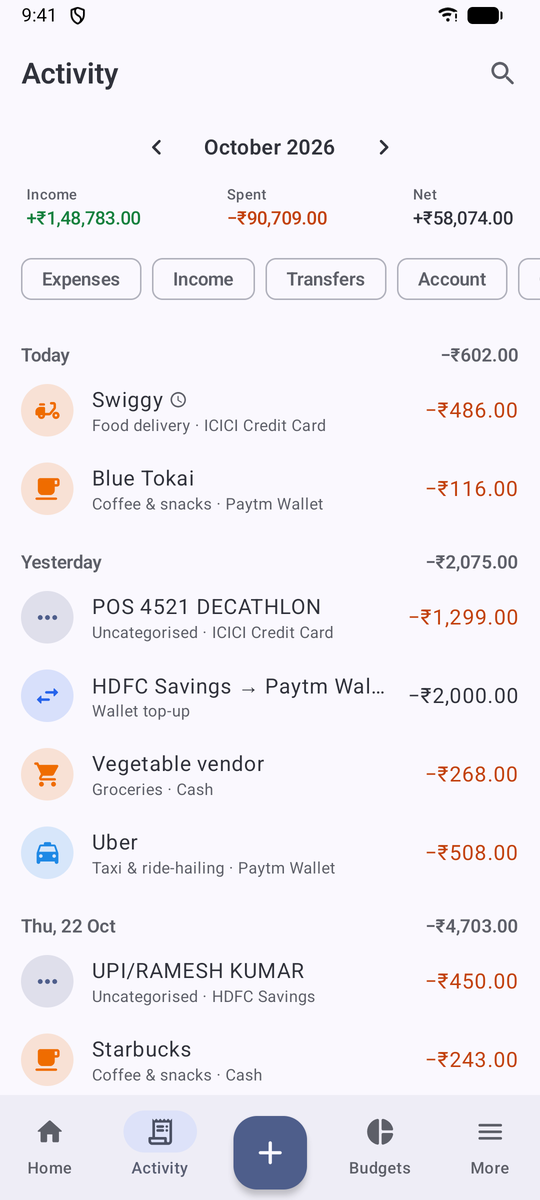
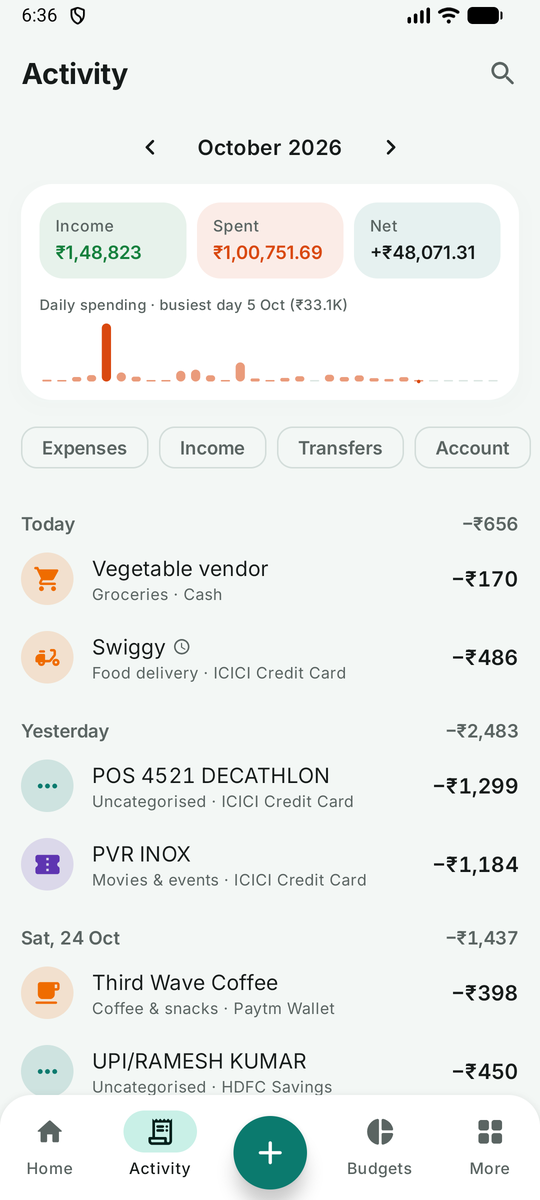
Docs and deployment: receipts, imports and check-ins documented; release 1.7.0
CHANGELOG entry for 1.7.0. The privacy policy covers on-phone receipt
reading, statement import, voice entry and sharing a book; the Google
Play notes list the new native library and its 16 KB alignment; the
product doc and roadmap follow the new features; docs/14 explains the
receipt reader and how to rebuild its models. Refreshed screenshots.

diff --git a/CHANGELOG.md b/CHANGELOG.md
@@ -1,5 +1,57 @@
 # Changelog
 
+## 1.7.0
+
+**Android: less typing, fewer taps**
+- Found payments can be saved straight from the notification: Save, Edit or Ignore, then Undo or Change for a few minutes after. A payment that is already in the book says so and offers "Add anyway".
+- Type or say it in one line: "450 lunch yesterday", "+85000 salary @hdfc", "1.2k groceries #trip". The amount, date, account, tags and category are filled in as you type (everyday words like lunch, cab or petrol find their category), and the mic works offline where the phone supports it. It is on Home and as a long-press shortcut on the app icon.
+- Scan a receipt: take or pick a photo and the amount, date and shop fill themselves in, with Undo. Reading happens on the phone with open models (PaddleOCR, run by ncnn): no Google services and no network. It reads Indian receipts (₹, Rs., GST lines, lakh grouping) and most others (decimal commas, SUMA, TOTALE…), and photos come out the right way up.
+- Import bank statements on the phone: PDF (including password-protected ones), Excel (.xls and .xlsx), CSV, OFX/QFX and QIF. Columns and the date style are guessed, UPI/NEFT/card narrations become readable payees, categories come from your rules and past entries, and anything already in the book is left out. Open or share a statement file to LekhaMint to start.
+- A weekly check-in on Sunday evening: what you spent against last week, entries without a category (one tap each, or "always file it this way"), found payments, budgets to watch, the week's bills, and an account whose balance hasn't been checked lately. It takes about 30 seconds; it can be turned off in More.
+- "Does this match your bank?": Home and the check-in ask about an account now and then; type the bank's balance and one tap adds the difference as an adjustment.
+- Bill reminders you can act on: Mark paid or Skip this time from the notification; card bills, loan EMIs and deposits open the right screen. Reminders arrive in the daytime only.
+- Share a book with family from the phone: add people by email as editors or viewers, remove them, or send an invite.
+- Simple mode for new books: More shows the everyday screens, and each tool (goals, loans, tags, rules…) appears once you turn it on in More → Features or once the book uses it.
+- Open-source notices in More → About list everything the app ships with and their licences.
+
+**Web**
+- Quick add knows everyday words too ("lunch", "uber", "petrol"), the same as the phone.
+- Imports recognise dates written 2026-10-24 as year first.
+
+**Fixes**
+- Android: photos taken in portrait were saved lying on their side in receipts.
+
+**Android: polish**
+- Inter is now the app's typeface (bundled, about 180 KB, trimmed to Latin, currency and maths signs; other scripts fall back to the system font).
+- Cards float on a soft shadow instead of a grey outline; the bottom bar is lifted and rounded; screens slide in when you open them and fade between tabs.
+- Lists show spending in the normal text colour and income in green, so a month of purchases reads calmly; the sign still says which way money went. Transfers show without a sign.
+- Home: the main card says "Total balance" (it read "Available to spend", which contradicted "Safe to spend" below it), shows placeholders instead of ₹0 while the month is added up, and the quick actions are Income, Transfer, Accounts and Reports (spending has the big + button).
+- Adding a transaction: a more compact keypad leaves the payee and note fields visible.
+- Sync says "Not syncing right now" with the error when it fails, instead of "Connected".
+- Dates read day first everywhere ("1 Oct 2025"); counts read "1 day", "1 change" instead of "1 days", "1 changes"; the snackbar's Undo uses the theme colour.
+- Local builds show the real version (from this changelog) instead of 1.0.0.
+
+**Web: polish**
+- Phones: transaction filters fold behind a Filters button so the list starts on the first screen; the tab bar's last tab is More, which opens every page; the Month / All time switch stays on one line.
+- Home: the set-up checklist shrinks to one line with the next step once most of it is done; the main card says "Total balance".
+- Lists show spending in the text colour and income in green; transfers show without a sign.
+- The add form puts the cursor in Amount (every dialog now focuses the field it asks for, not the Close button), and Today / Yesterday sit under the date.
+- Inter is bundled with the app (69 KB) so every browser shows the same type; nothing is fetched from a font service.
+
+**Search**
+- Search on Android and the web also finds a category by name and an exact amount: type "486" from a bank statement or "groceries".
+
+**Fixes**
+- Web: the transactions table's column header stuck 60px down inside the table, covering the first rows.
+- Android: if saving a transaction failed (for example a full disk or an unreadable receipt), Save stopped working with no message; it now says what went wrong. Saves in other forms (loans, deposits, people, budgets…) show a message instead of closing the app. A failure creating the first book no longer leaves "Get started" stuck.
+- Android: if a full download of the book (needed after a long time offline) was interrupted, items deleted on other devices could stay on the phone; the download now restarts from the beginning until it completes.
+
+**Server**
+- Deleting your account no longer deletes a book other people still use: a book you alone own passes to its longest-standing member (editors first), and only books nobody else uses are deleted.
+- The session cookie is marked Secure behind a trusted HTTPS reverse proxy (`X-Forwarded-Proto`), not only on direct TLS.
+- Changing the password is rate limited per person; deleting the account also clears the browser's session cookie; cross-origin requests may use `PUT` (settings).
+- The server logs a one-time warning when requests come through a reverse proxy that is not trusted, because everyone then shares one sign-in limit.
+
 ## 1.6.0
 
 **Android: a new look**

diff --git a/docs/14-receipt-reading.md b/docs/14-receipt-reading.md
@@ -1,0 +1,52 @@
+# 14 – Receipt reading (Android)
+
+Receipts are read on the phone. Nothing uses Google Play services or the network.
+
+## Pieces
+
+| Part | Where | Licence |
+|---|---|---|
+| Text detection model: PaddleOCR PP-OCRv5 mobile det | `android/app/src/main/assets/ocr/det.param`, `det.bin` | Apache 2.0 |
+| Text recognition model: PaddleOCR en PP-OCRv5 mobile rec, 436-character dictionary | `assets/ocr/rec.param`, `rec.bin`, `keys.txt` | Apache 2.0 |
+| Runtime: ncnn 20260526, static Android build | downloaded by the `fetchNcnn` Gradle task, SHA-256 pinned | BSD 3-Clause |
+| JNI: runs the two models and nothing else | `android/app/src/main/cpp/ocr_jni.cpp` | MIT (this project) |
+| Boxes, line grouping, page tilt | `app/kosh/ocr/TextFinder.kt` | MIT |
+| Total, date, shop and currency | `app/kosh/ocr/ReceiptParser.kt` | MIT |
+
+The steps after the models run are in Kotlin so they can be unit tested (`ReceiptOcrTest`):
+
+1. **Detect.** The photo, upright (EXIF applied), scaled to at most 960 px on the long side in multiples of 32,
+   BGR with ImageNet mean and deviation. The model returns a text probability map.
+2. **Find boxes.** Threshold 0.3, connected regions, the smallest rotated rectangle around each, box score at
+   least 0.6, then grown by 1.5 ("unclip"), as PaddleOCR's DB post-processing does.
+3. **Read.** Each box is cropped and straightened to 48 px high, scaled to (x − 127.5) / 127.5, and decoded with
+   CTC greedy decoding (classes: blank + `keys.txt` + space). Lines under 0.5 confidence are dropped.
+4. **Group into lines.** Boxes are turned back by the page's tilt (the median angle of the wide boxes), then
+   joined when they overlap vertically, so "TOTAL" and its amount stay on one line in a slanted photo.
+5. **Parse.** The total is the amount on the strongest "total" line (Grand Total and Net Payable over Total; never
+   Sub Total, tax, savings or change), else the largest amount printed twice. The date must fall within the last
+   two years. The shop is large text near the top that isn't an address, tax number or heading.
+
+## Rebuilding the models
+
+1. Download the inference models from `huggingface.co/PaddlePaddle/PP-OCRv5_mobile_det` and
+   `huggingface.co/PaddlePaddle/en_PP-OCRv5_mobile_rec`.
+2. Convert to ONNX: `paddle2onnx --model_dir <m> --model_filename inference.json --params_filename
+   inference.pdiparams --save_file <m>.onnx --opset_version 14` (paddlepaddle 3.1.1 with paddle2onnx 2.1.0;
+   newer paddle builds fail to load on Windows).
+3. Convert to ncnn: `pnnx <m>.onnx fp16=1`, keeping the dynamic input size.
+4. **Make the shapes static where the bundled ncnn needs it.** Recent pnnx writes the squeeze-and-excite
+   reshapes in the detector as `Reshape … 12=0 13=0 6="1,1,//(96,0n),0n"` (a batch-aware shape). ncnn
+   20260526 cannot load that ("expr divide by zero", "layer load_param … failed") and the reader stops working.
+   Replace each with the fixed shape `0=1 1=1 2=96` (or `2=24`); the output is identical. The unit test
+   `modelsLoadOnTheBundledNcnn` fails if such a layer comes back.
+5. Check both models with the same ncnn version the app ships (`pip install ncnn==1.0.20260526`) on a few
+   receipt photos before replacing the assets.
+
+Raising the ncnn version: change the version and SHA-256 in `android/app/build.gradle.kts`, rebuild, and run the
+app on a phone or emulator with a receipt photo.
+
+## Size
+
+The models are about 6.3 MB (fp16). `libkoshocr.so` is 4.8 MB on arm64 and 2.5 MB on 32-bit ARM, stored
+compressed in the APK. Release builds ship ARM only; debug builds add x86_64 for the emulator.

diff --git a/docs/01-product-and-ux.md b/docs/01-product-and-ux.md
@@ -62,6 +62,11 @@ Bottom navigation
 - **Save** keeps the screen open on long-press, for logging several receipts in a row.
 - Entry points: the FAB, a **Quick Settings tile**, a **home-screen widget**, an **app shortcut**, and the share sheet (share an SMS or receipt image to pre-fill the amount).
 - **Found payments** (optional, Android): with notification access turned on, bank SMS, card alerts and UPI/wallet app notifications are read on the phone and listed under *More → Find payments automatically* (and a card on Home). Each shows the amount, payee and the account's last digits; *Add* opens the form already filled in, matched to the account with those digits and categorised by your rules. OTPs, offers, due-date reminders and chat apps are ignored, and nothing is saved until you tap *Add*.
+- **One line** (Android and web): "450 lunch yesterday @hdfc #trip" fills amount, date, account, tags and category as you type; on Android the mic fills the line by voice. Home has the bar, and the app icon's long-press menu has *Quick add*.
+- **Receipts** (Android): attaching or scanning a receipt photo reads the total, date and shop on the phone (PaddleOCR + ncnn, no Google services) and fills an empty form, with *Undo*.
+- **From the notification** (Android): a found payment's notification has *Save*, *Edit* and *Ignore*; after saving, *Undo* and *Change* stay for five minutes. Bill reminders have *Mark paid* and *Skip this time*.
+- **Weekly check-in** (Android, Sunday 18:00): the week against last week, entries needing a category (one tap, or make it a rule), found payments, budgets to watch, the next week's bills and one account to compare with the bank ("Does this match your bank?", one tap to add the difference).
+- **Simple mode** (Android, on for new books): More shows the everyday screens; goals, loans, deposits, debts, tags, rules, rates, tools, tax, statements and the assistant appear when turned on in *More → Features* or once the book uses them.
 - **Insights** (Android, *More → Insights & forecast*, and a card on Home): *safe to spend per day* until month end or payday — measured against an overall monthly budget, else this month's income, else cash — with the sum shown step by step; what stands out against the same days last month; a cash forecast with a likely line and a range; and repeat payments found in past spending, with price rises and a one-tap reminder.
 
 ## Visual design

diff --git a/PRIVACY.md b/PRIVACY.md
@@ -1,6 +1,6 @@
 # Privacy policy
 
-Last updated: 25 October 2026
+Last updated: 26 October 2026
 
 LekhaMint is a free, open-source money manager. This policy covers the LekhaMint Android app
 (package `app.kosh`), the web app and the self-hosted LekhaMint server. The source code is public at
@@ -20,6 +20,18 @@ and settings are stored in the app's private storage. Automatic backups are writ
 private storage; backups you export go where you choose and can be password-encrypted. Server sign-in
 tokens and assistant API keys are encrypted with a key held in the Android Keystore.
 
+Some things are read on the phone and never sent anywhere:
+
+- **Receipt photos.** When you attach or scan a receipt, the app reads its amount, date and shop with
+  text-recognition models built into the app. No Google Play services and no network are involved. The
+  photo is saved with the transaction like any other attachment.
+- **Bank statements you import.** The file (PDF, Excel, CSV, OFX or QIF, and its password if it has one)
+  is read on the phone; only the entries you choose to import are saved. The file and its password are
+  not kept.
+- **Voice entry.** The microphone button uses your phone's own speech recognition service (offline when
+  the phone supports it). LekhaMint receives only the words, not the recording. The app does not hold
+  the microphone permission itself.
+
 Android's own cloud backup and device-to-device transfer are turned off for this app, so your data is
 not copied to Google's backup service.
 
@@ -29,7 +41,8 @@ Only in these cases, and only after you set them up:
 
 1. **Sync with your own server.** If you sign in to a LekhaMint server, your records are sent to that
    server address and nowhere else. The server is run by you or by someone you choose (for example a
-   family member). Its operator can read the data stored on it.
+   family member). Its operator can read the data stored on it. If you share a book with someone
+   (*More → Share with family*), they see that book's records on their own devices.
 2. **The assistant.** If you configure the assistant, your question and the records it looks up
    (totals, balances, loans, deposits and, if you allow it, payee names and notes) are sent to the
    model service address you enter. The app asks for your consent before the first request to each

diff --git a/docs/12-google-play.md b/docs/12-google-play.md
@@ -10,7 +10,8 @@ the steps that must be done by hand in the Play Console.
 | App Bundle upload | `./gradlew bundleRelease` makes `app-release.aab`; the release workflow publishes it as `LekhaMint-play.aab`. |
 | Target API level (API 36 from 31 August 2026) | `targetSdk = 36`, `compileSdk = 36`. Raise both each year when Play raises the bar. |
 | Release signing | The release workflow refuses to publish a debug-signed APK or bundle. |
-| 16 KB memory pages | The only native code is AndroidX's `libandroidx.graphics.path.so`; it is 16 KB aligned in the ZIP and in its ELF segments (checked with `zipalign -c -P 16`). |
+| 16 KB memory pages | Native code: AndroidX's `libandroidx.graphics.path.so` and the receipt reader `libkoshocr.so` (ncnn, built with NDK 27). Both have 16 KB-aligned ELF segments (`llvm-readelf -lW`, `Align 0x4000`); they are stored compressed (`useLegacyPackaging`), so `zipalign -c -P 16` reports them as "OK - compressed". |
+| Receipt reading and voice | Receipts are read on the phone (PaddleOCR models with ncnn, no Play services). Photos come from the camera app (`TakePicture`) or the photo picker and speech from `RecognizerIntent`, so the app holds no camera, microphone or storage permission. |
 | In-app account deletion | *More → Sync → Delete account* (and *Settings → Your account* on the web) calls `DELETE /api/v1/auth/me`. |
 | Privacy policy | [`PRIVACY.md`](../PRIVACY.md), linked from *More → Privacy policy*. |
 | Generative AI content | Each assistant answer has a *Report* action; the answer is never attached automatically. |

diff --git a/docs/07-api.md b/docs/07-api.md
@@ -38,7 +38,7 @@ Base path is `/api/v1`. The API speaks JSON only. Authenticated endpoints need
 | `GET /auth/sessions` | Devices signed in: `{sessions:[{id, device_name, last_used_at, current}]}` |
 | `DELETE /auth/sessions/{id}` | Sign out that device |
 | `POST /auth/password` | `{current_password, new_password}`. Also signs out all other devices. |
-| `DELETE /auth/me` | `{password}` → `{deleted_ledgers}`. Permanently deletes the account and every ledger it alone owns; removes it from ledgers with another owner. Wrong password: 401 `invalid_credentials` (the session stays valid). |
+| `DELETE /auth/me` | `{password}` → `{deleted_ledgers}`. Permanently deletes the account. A ledger it alone owns passes to its longest-standing other member (editors before viewers); one with no other members is deleted. It is removed from every other ledger. Wrong password: 401 `invalid_credentials` (the session stays valid). |
 
 ## Per-person settings
 
@@ -100,7 +100,7 @@ so phones pick them up on their next pull.
 | `tag_id`, `type`, `status` | Exact match |
 | `debt_id` | Loans and repayments of one debt; `any` lists every debt movement |
 | `min_amount`, `max_amount` | Amount range in minor units, inclusive |
-| `q` | Case-insensitive search in payee and note |
+| `q` | Case-insensitive search in payee, note and category name; a number such as `486` or `1,299.50` also matches that exact amount (in the book's main currency) |
 | `deleted=true` | List the Trash |
 | `limit` (≤ 500), `cursor` | Paging. Pass back `next_cursor`. |
 

diff --git a/docs/09-roadmap.md b/docs/09-roadmap.md
@@ -60,14 +60,20 @@ This page tracks concrete status.
       transfers/end conditions and "mark paid", auto-recording of due items, exchange-rate editor, book sharing,
       signed-in devices, keyboard shortcuts, mobile tab bar, true-black theme
 
+### Android 1.7 (October 2026)
+- [x] Command-style quick add with voice; everyday words pick categories (shared with the web)
+- [x] On-device receipt reading (PaddleOCR PP-OCRv5 + ncnn, no Play services)
+- [x] Statement import on the phone: PDF (incl. passwords), XLS/XLSX, CSV, OFX/QFX, QIF
+- [x] Actionable notifications (found payments, bills), weekly check-in, balance check, simple mode, sharing a book
+
 ## Next (Phase 3)
 
 1. Web offline writes (SQLite-WASM + the sync protocol), so the PWA can record while offline.
 2. Receipt attachments (blob storage on the server, thumbnails on clients).
-3. Ivy Wallet / other app backup importers; OFX and QIF import.
+3. Ivy Wallet / other app backup importers; OFX and QIF import on the web (Android has them).
 4. Contract test of the Android sync client against a real server in CI (emulator job).
 5. Docker image build in CI and published images.
-6. Android: command-style quick add. (Insights, cash forecast, safe to spend and repeat-payment detection are done.)
+6. Web: simple mode and the weekly check-in, as on Android.
 
 ## Later (Phases 3–4)
 

diff --git a/docs/03-architecture.md b/docs/03-architecture.md
@@ -80,7 +80,7 @@ app.kosh.core               Money, currencies, calculator, HLC, UUIDv7/v5, dates
 - **Unknown fields survive.** Each row keeps an `extras` JSON of fields a newer client added, and entities this version has no screen for live in `raw_records`. Nothing a newer device writes is lost by an older one.
 - **Reference data** (accounts, balances, categories) is one shared, always-fresh `StateFlow` (`Lookup`), so screens never re-query it.
 - **WorkManager jobs:** sync (5 s after edits, every 15 min with network), daily job (auto recurring entries, bill reminders, budget alerts, automatic backup).
-- **Search** uses indexed `LIKE` over payee and note today; FTS is a drop-in later if needed.
+- **Search** uses `LIKE` over payee, note and category name, plus an exact match on the amount when the text is a number; FTS is a drop-in later if needed.
 - **Testing:** JVM unit tests for all core and domain logic, the sync codec and backup encryption; instrumented and screenshot tests are on the roadmap.
 
 ## Web (React + TypeScript)
